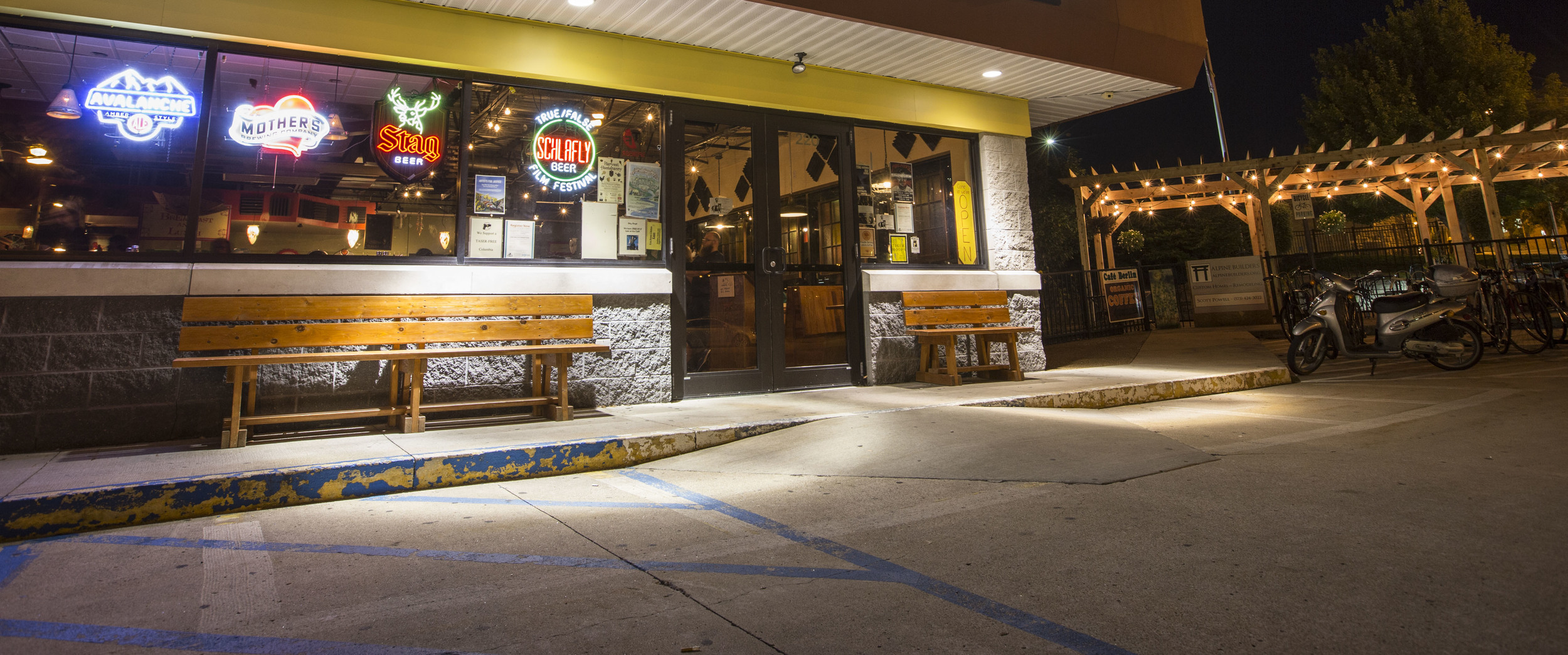
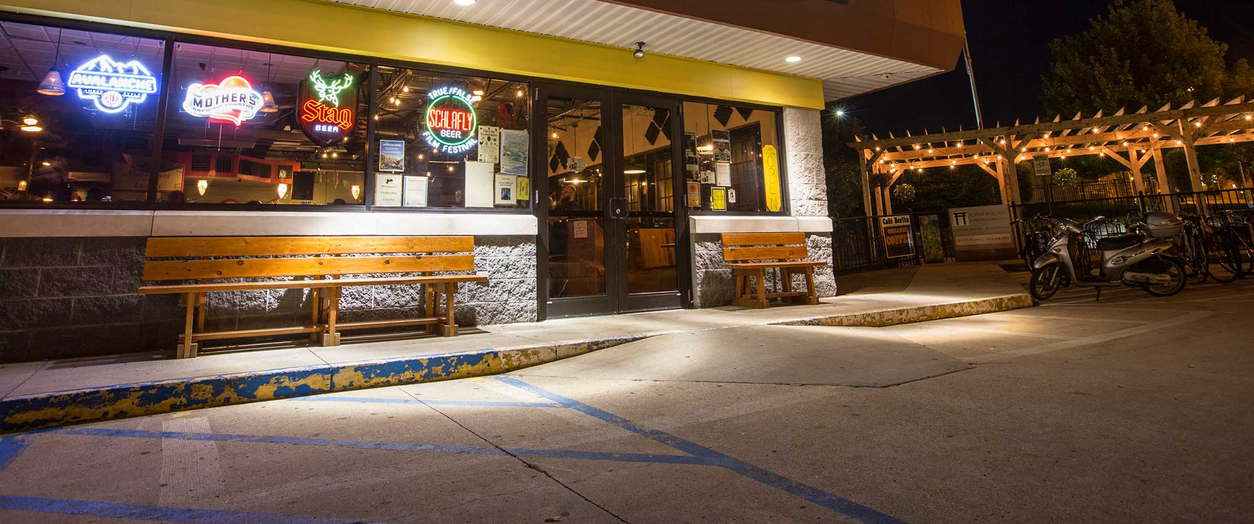
Build stuff

diff --git a/public/index.html b/public/index.html
@@ -1,18 +1,47 @@
 <!DOCTYPE html>
 <html lang="en">
-  <head>
-    <meta charset="utf-8">
-    <meta name="viewport" content="width=device-width, initial-scale=1, shrink-to-fit=no">
-    <meta name="theme-color" content="#000000">
-    <!--
+
+<head>
+  <meta charset="utf-8">
+  <meta name="viewport" content="width=device-width, initial-scale=1, shrink-to-fit=no">
+  <meta name="theme-color" content="#000000">
+
+  <!-- Open graph -->
+  <!-- COMMON TAGS -->
+  <meta charset="utf-8">
+  <title>Cafe Berlin Tip-share Calculator</title>
+  <!-- Search Engine -->
+  <meta name="description" content="...because doing math at the end of a shift is hard">
+  <meta name="image" content="http://zachbiri.com/cbtip/static/media/cbog.jpg">
+  <!-- Schema.org for Google -->
+  <meta itemprop="name" content="Cafe Berlin Tip-share Calculator">
+  <meta itemprop="description" content="...because doing math at the end of a shift is hard">
+  <meta itemprop="image" content="http://zachbiri.com/cbtip/static/media/cbog.jpg">
+  <!-- Twitter -->
+  <meta name="twitter:card" content="summary">
+  <meta name="twitter:title" content="Cafe Berlin Tip-share Calculator">
+  <meta name="twitter:description" content="...because doing math at the end of a shift is hard">
+  <meta name="twitter:site" content="@zachbiri">
+  <meta name="twitter:creator" content="@zachbiri">
+  <meta name="twitter:image:src" content="Cafe Berlin Tip-share Calculator">
+  <!-- Open Graph general (Facebook, Pinterest & Google+) -->
+  <meta name="og:title" content="Cafe Berlin Tip-share Calculator">
+  <meta name="og:description" content="...because doing math at the end of a shift is hard">
+  <meta name="og:image" content="http://zachbiri.com/cbtip/static/media/cbog.jpg">
+  <meta name="og:url" content="http://zachbiri.com/cbtip">
+  <meta name="og:site_name" content="Cafe Berlin Tip-share Calculator">
+  <meta name="og:locale" content="en_US">
+  <meta name="fb:admins" content="@zachbiri">
+  <meta name="og:type" content="website">
+  <!--
       manifest.json provides metadata used when your web app is added to the
       homescreen on Android. See https://developers.google.com/web/fundamentals/engage-and-retain/web-app-manifest/
     -->
-    <link rel="stylesheet" href="https://pro.fontawesome.com/releases/v5.1.0/css/all.css" integrity="sha384-87DrmpqHRiY8hPLIr7ByqhPIywuSsjuQAfMXAE0sMUpY3BM7nXjf+mLIUSvhDArs"
-      crossorigin="anonymous">
-    <link rel="manifest" href="%PUBLIC_URL%/manifest.json">
-    <link rel="shortcut icon" href="%PUBLIC_URL%/favicon.ico">
-    <!--
+  <link rel="stylesheet" href="https://pro.fontawesome.com/releases/v5.1.0/css/all.css" integrity="sha384-87DrmpqHRiY8hPLIr7ByqhPIywuSsjuQAfMXAE0sMUpY3BM7nXjf+mLIUSvhDArs"
+    crossorigin="anonymous">
+  <link rel="manifest" href="%PUBLIC_URL%/manifest.json">
+  <link rel="shortcut icon" href="%PUBLIC_URL%/favicon.ico">
+  <!--
       Notice the use of %PUBLIC_URL% in the tags above.
       It will be replaced with the URL of the `public` folder during the build.
       Only files inside the `public` folder can be referenced from the HTML.
@@ -21,14 +50,15 @@
       work correctly both with client-side routing and a non-root public URL.
       Learn how to configure a non-root public URL by running `npm run build`.
     -->
-    <title>Cafe Berlin Tip-share Calculator</title>
-  </head>
-  <body>
-    <noscript>
-      You need to enable JavaScript to run this app.
-    </noscript>
-    <div id="root"></div>
-    <!--
+  <title>Cafe Berlin Tip-share Calculator</title>
+</head>
+
+<body>
+  <noscript>
+    You need to enable JavaScript to run this app.
+  </noscript>
+  <div id="root"></div>
+  <!--
       This HTML file is a template.
       If you open it directly in the browser, you will see an empty page.
 
@@ -38,5 +68,6 @@
       To begin the development, run `npm start` or `yarn start`.
       To create a production bundle, use `npm run build` or `yarn build`.
     -->
-  </body>
+</body>
+
 </html>

diff --git a/src/components/AnimateOnChange/AnimateOnChange.js b/src/components/AnimateOnChange/AnimateOnChange.js
@@ -1,0 +1,91 @@
+
+var __importStar = (this && this.__importStar) || function (mod) {
+    if (mod && mod.__esModule) return mod;
+    var result = {};
+    if (mod != null) for (var k in mod) if (Object.hasOwnProperty.call(mod, k)) result[k] = mod[k];
+    result["default"] = mod;
+    return result;
+};
+Object.defineProperty(exports, "__esModule", { value: true });
+const react_1 = __importStar(require("react"));
+const events = {
+    start: ['animationstart', 'webkitAnimationStart', 'mozAnimationStart', 'oanimationstart', 'MSAnimationStart'],
+    end: ['animationend', 'webkitAnimationEnd', 'mozAnimationEnd', 'oanimationend', 'MSAnimationEnd'],
+    startRemoved: [],
+    endRemoved: []
+};
+
+class AnimateOnChange extends react_1.Component {
+    constructor(props) {
+        super(props);
+        this.state = { animating: false, clearAnimationClass: false };
+        this.animationStart = this.animationStart.bind(this);
+        this.animationEnd = this.animationEnd.bind(this);
+        this.setElementRef = (ref) => {
+            this.elm = ref;
+        };
+    }
+    componentDidMount() {
+        this.addEventListener('start', this.elm, this.animationStart);
+        this.addEventListener('end', this.elm, this.animationEnd);
+    }
+    componentWillUnmount() {
+        this.removeEventListeners('start', this.elm, this.animationStart);
+        this.removeEventListeners('end', this.elm, this.animationEnd);
+    }
+    addEventListener(type, elm, eventHandler) {
+        // until an event has been triggered bind them all
+        events[type].map(event => {
+            // console.log(`adding ${event}`)
+            // @ts-ignore
+            elm.addEventListener(event, eventHandler);
+        });
+    }
+    removeEventListeners(type, elm, eventHandler) {
+        events[type].map(event => {
+            // console.log(`removing ${event}`)
+            // @ts-ignore
+            elm.removeEventListener(event, eventHandler);
+        });
+    }
+    updateEvents(type, newEvent) {
+        // console.log(`updating ${type} event to ${newEvent}`)
+        events[type + 'Removed'] = events[type].filter(e => e !== newEvent);
+        events[type] = [newEvent];
+    }
+    animationStart(e) {
+        if (events['start'].length > 1) {
+            this.updateEvents('start', e.type);
+            this.removeEventListeners('startRemoved', this.elm, this.animationStart);
+        }
+        this.setState({ animating: true, clearAnimationClass: false });
+    }
+    animationEnd(e) {
+        if (events['end'].length > 1) {
+            this.updateEvents('end', e.type);
+            this.removeEventListeners('endRemoved', this.elm, this.animationStart);
+        }
+        // send separate, animation state change will not render
+        this.setState({ clearAnimationClass: true }); // renders
+        this.setState({ animating: false, clearAnimationClass: false });
+        if (typeof this.props.onAnimationEnd === 'function') {
+            this.props.onAnimationEnd();
+        }
+    }
+    shouldComponentUpdate(nextProps, nextState) {
+        if (this.state.animating !== nextState.animating) {
+            // do not render on animation change
+            return false;
+        }
+        return true;
+    }
+    render() {
+        let className = this.props.baseClassName;
+        if (this.props.animate && !this.state.clearAnimationClass) {
+            className += ` ${this.props.animationClassName}`;
+        }
+        let Tag = this.props.customTag || 'span';
+        return react_1.default.createElement(Tag, { ref: this.setElementRef, className: className }, this.props.children);
+    }
+}
+exports.default = AnimateOnChange;

diff --git a/src/components/Footer/Footer.js b/src/components/Footer/Footer.js
@@ -1,7 +1,7 @@
 import React from "react";
 import "./Footer.css";
 
-const Footer = () => {
+const Footer = () => { 
   return (
     <footer className="Footer">
       <div className="Footer__logobox"> &nbsp; </div>
@@ -16,34 +16,34 @@ const Footer = () => {
           </p>
         </div>
         <div className="Footer__right Footer__cols">
-          <ul class="Footer__list">
+          <ul className="Footer__list">
             <li>
               <a href="http://zachbiri.com">
-                <i class="fab fa-react" />&nbsp;
-                <i class="fab fa-html5" />&nbsp;
-                <i class="fab fa-js-square" />&nbsp;
-                <i class="fab fa-sass" />
+                <i className="fab fa-react" />&nbsp;
+                <i className="fab fa-html5" />&nbsp;
+                <i className="fab fa-js-square" />&nbsp;
+                <i className="fab fa-sass" />
                 : Zach Biri
               </a>
             </li>
             <li>
               <a href="mailto:zachbiri@gmail.com">
-                <i class="fas fa-envelope" /> : zachbiri@gmail.com
+                <i className="fas fa-envelope" /> : zachbiri@gmail.com
               </a>
             </li>
             <li>
               <a href="https://github.com/zabiri/cafeberlin-tipshare">
-                <i class="fab fa-github" /> : zabiri/cafeberlin-tipshare
+                <i className="fab fa-github" /> : zabiri/cafeberlin-tipshare
               </a>
             </li>
 
             <li>
               <a href="https://www.facebook.com/cafeberlincomo/">
-                <i class="fab fa-facebook" /> : @cafeberlincomo
+                <i className="fab fa-facebook" /> : @cafeberlincomo
               </a>
             </li>
             <li>
-              <i class="fas fa-copyright" /> :{" "}
+              <i className="fas fa-copyright" /> :{" "}
               <a href="http://cafeberlincomo.com">Cafe Berlin 2018</a>
             </li>
           </ul>

diff --git a/src/containers/Input/Input.js b/src/containers/Input/Input.js
@@ -1,5 +1,5 @@
 import React, { Component } from "react";
-import AnimateOnChange from 'react-animate-on-change'
+import AnimateOnChange from '../../components/AnimateOnChange/AnimateOnChange'
 
 import Day from '../../components/Day/Day'
 

diff --git a/src/index.js b/src/index.js
@@ -2,7 +2,7 @@ import React from 'react';
 import ReactDOM from 'react-dom';
 import { createStore } from "redux";
 import { Provider } from "react-redux";
-
+import './assets/img/cbog.jpg'
 import './index.css';
 
 import App from './App';
